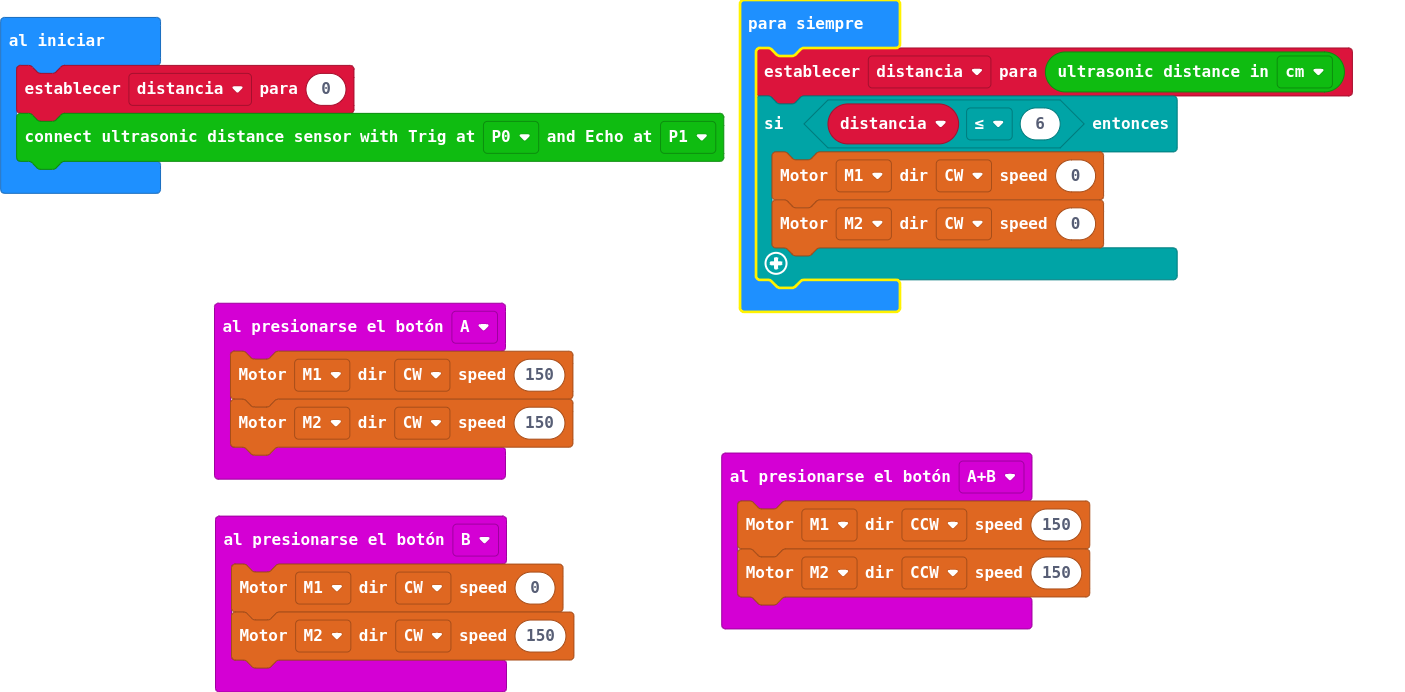
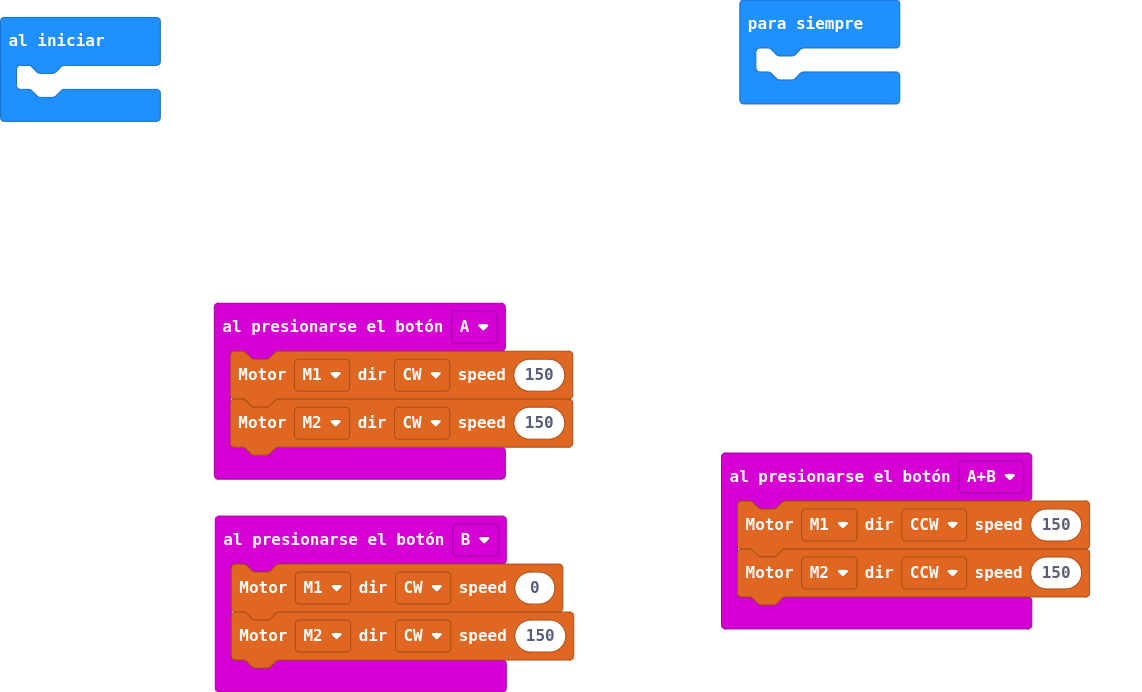
Actualizar main.blocks, main.ts

diff --git a/main.ts b/main.ts
@@ -10,12 +10,6 @@ input.onButtonPressed(Button.B, function () {
     motor.MotorRun(motor.Motors.M1, motor.Dir.CW, 0)
     motor.MotorRun(motor.Motors.M2, motor.Dir.CW, 150)
 })
-let distancia = 0
-makerbit.connectUltrasonicDistanceSensor(DigitalPin.P0, DigitalPin.P1)
 basic.forever(function () {
-    distancia = makerbit.getUltrasonicDistance(DistanceUnit.CM)
-    if (distancia <= 6) {
-        motor.MotorRun(motor.Motors.M1, motor.Dir.CW, 0)
-        motor.MotorRun(motor.Motors.M2, motor.Dir.CW, 0)
-    }
+	
 })
